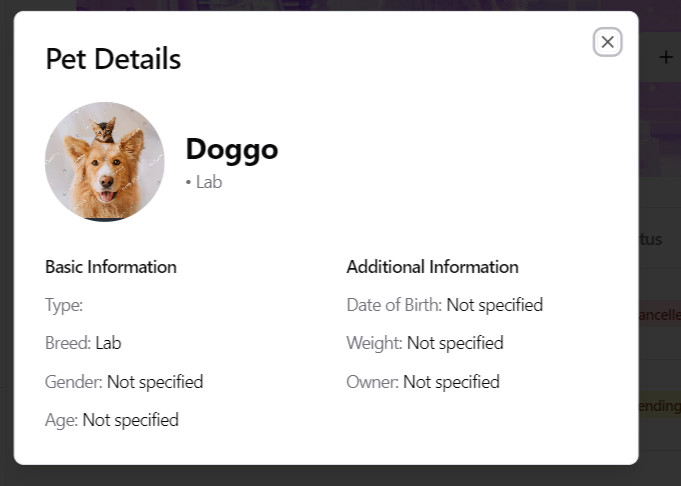
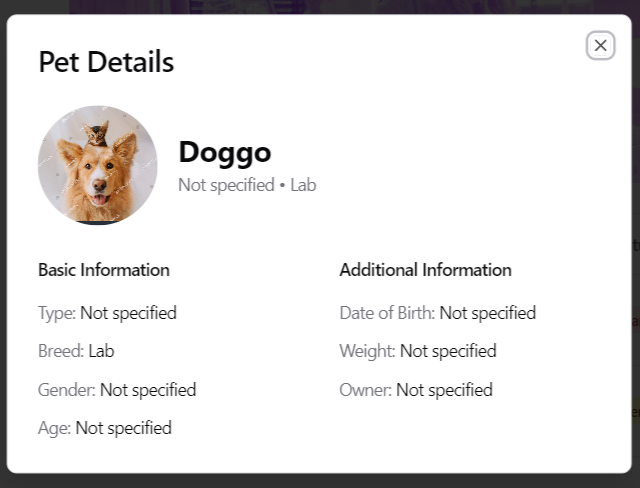
Agent query: Please check if the pet details modal now shows all the available information correctly instead of displaying "Not specified" when data exists.
Refactor PetDetails component to improve display of pet attributes.

Screenshot: https://storage.googleapis.com/screenshot-production-us-central1/c2ee078f-4b26-4083-bd08-de31e29653e1/3bda2960-9f77-45b7-a715-9315599c6693.jpg

diff --git a/client/src/components/PetDetails.tsx b/client/src/components/PetDetails.tsx
@@ -40,9 +40,16 @@ export function PetDetails({ pet, onEdit, onDelete, formatDate }: PetDetailsProp
   };
 
   const formatValue = (value: any, unit?: string) => {
-    if (value === null || value === undefined || value === '') return 'Not specified';
+    if (value === null || value === undefined) return 'Not specified';
+    if (value === '') return 'Not specified';
     if (unit) return `${value} ${unit}`;
     return value;
+  };
+
+  const getDisplayValue = (label: string, value: any, unit?: string) => {
+    if (label === 'Type' && pet.type) return capitalize(pet.type);
+    if (label === 'Gender' && pet.gender) return capitalize(pet.gender);
+    return formatValue(value, unit);
   };
 
   return (
@@ -75,19 +82,19 @@ export function PetDetails({ pet, onEdit, onDelete, formatDate }: PetDetailsProp
           <div className="space-y-2">
             <p>
               <span className="text-muted-foreground">Type: </span>
-              {formatValue(pet.type)}
+              {getDisplayValue('Type', pet.type)}
             </p>
             <p>
               <span className="text-muted-foreground">Breed: </span>
-              {formatValue(pet.breed)}
+              {getDisplayValue('Breed', pet.breed)}
             </p>
             <p>
               <span className="text-muted-foreground">Gender: </span>
-              {formatValue(pet.gender ? capitalize(pet.gender) : null)}
+              {getDisplayValue('Gender', pet.gender)}
             </p>
             <p>
               <span className="text-muted-foreground">Age: </span>
-              {formatValue(pet.age, 'years')}
+              {getDisplayValue('Age', pet.age, 'years')}
             </p>
           </div>
         </div>
